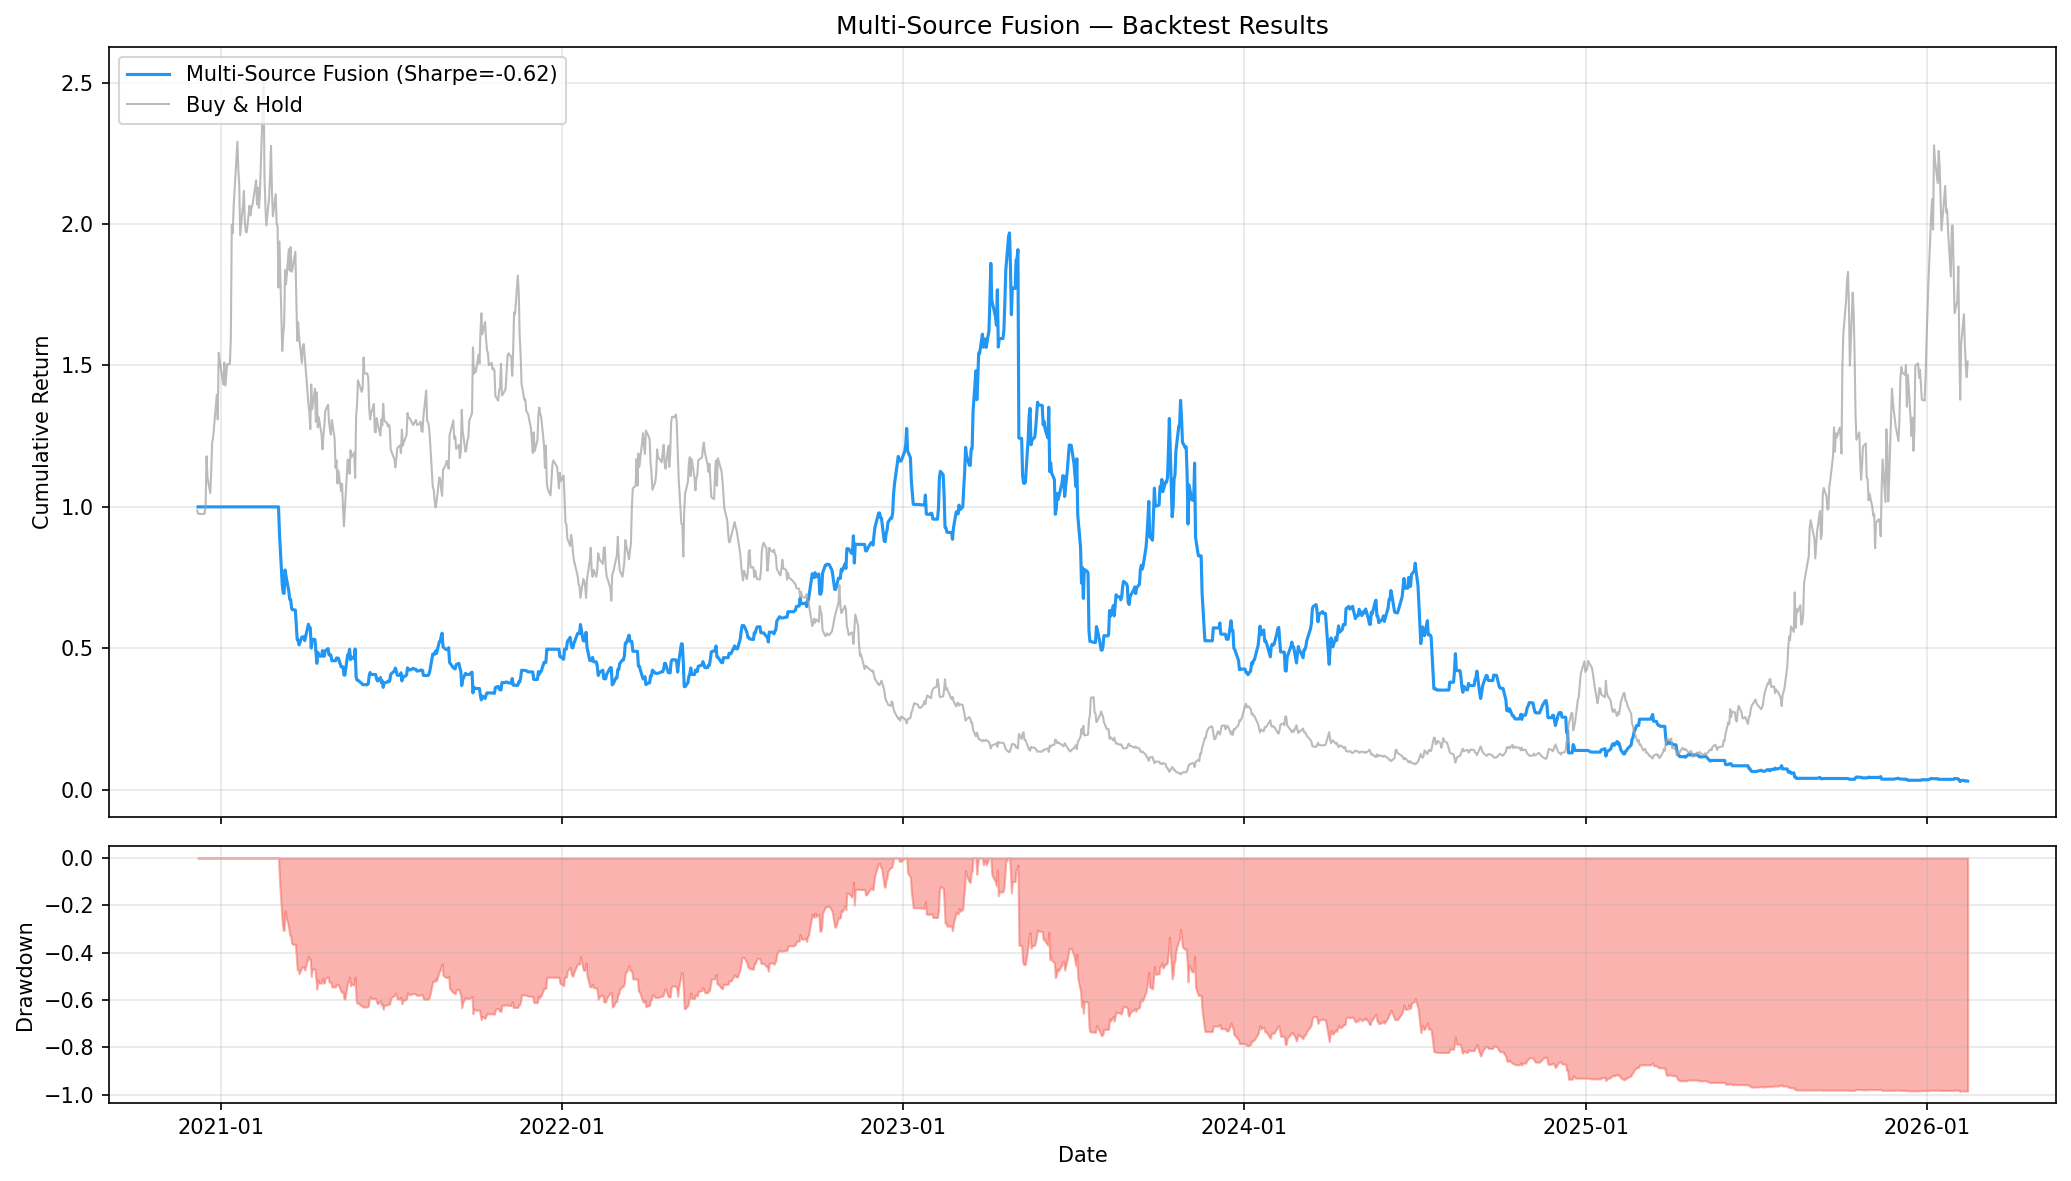
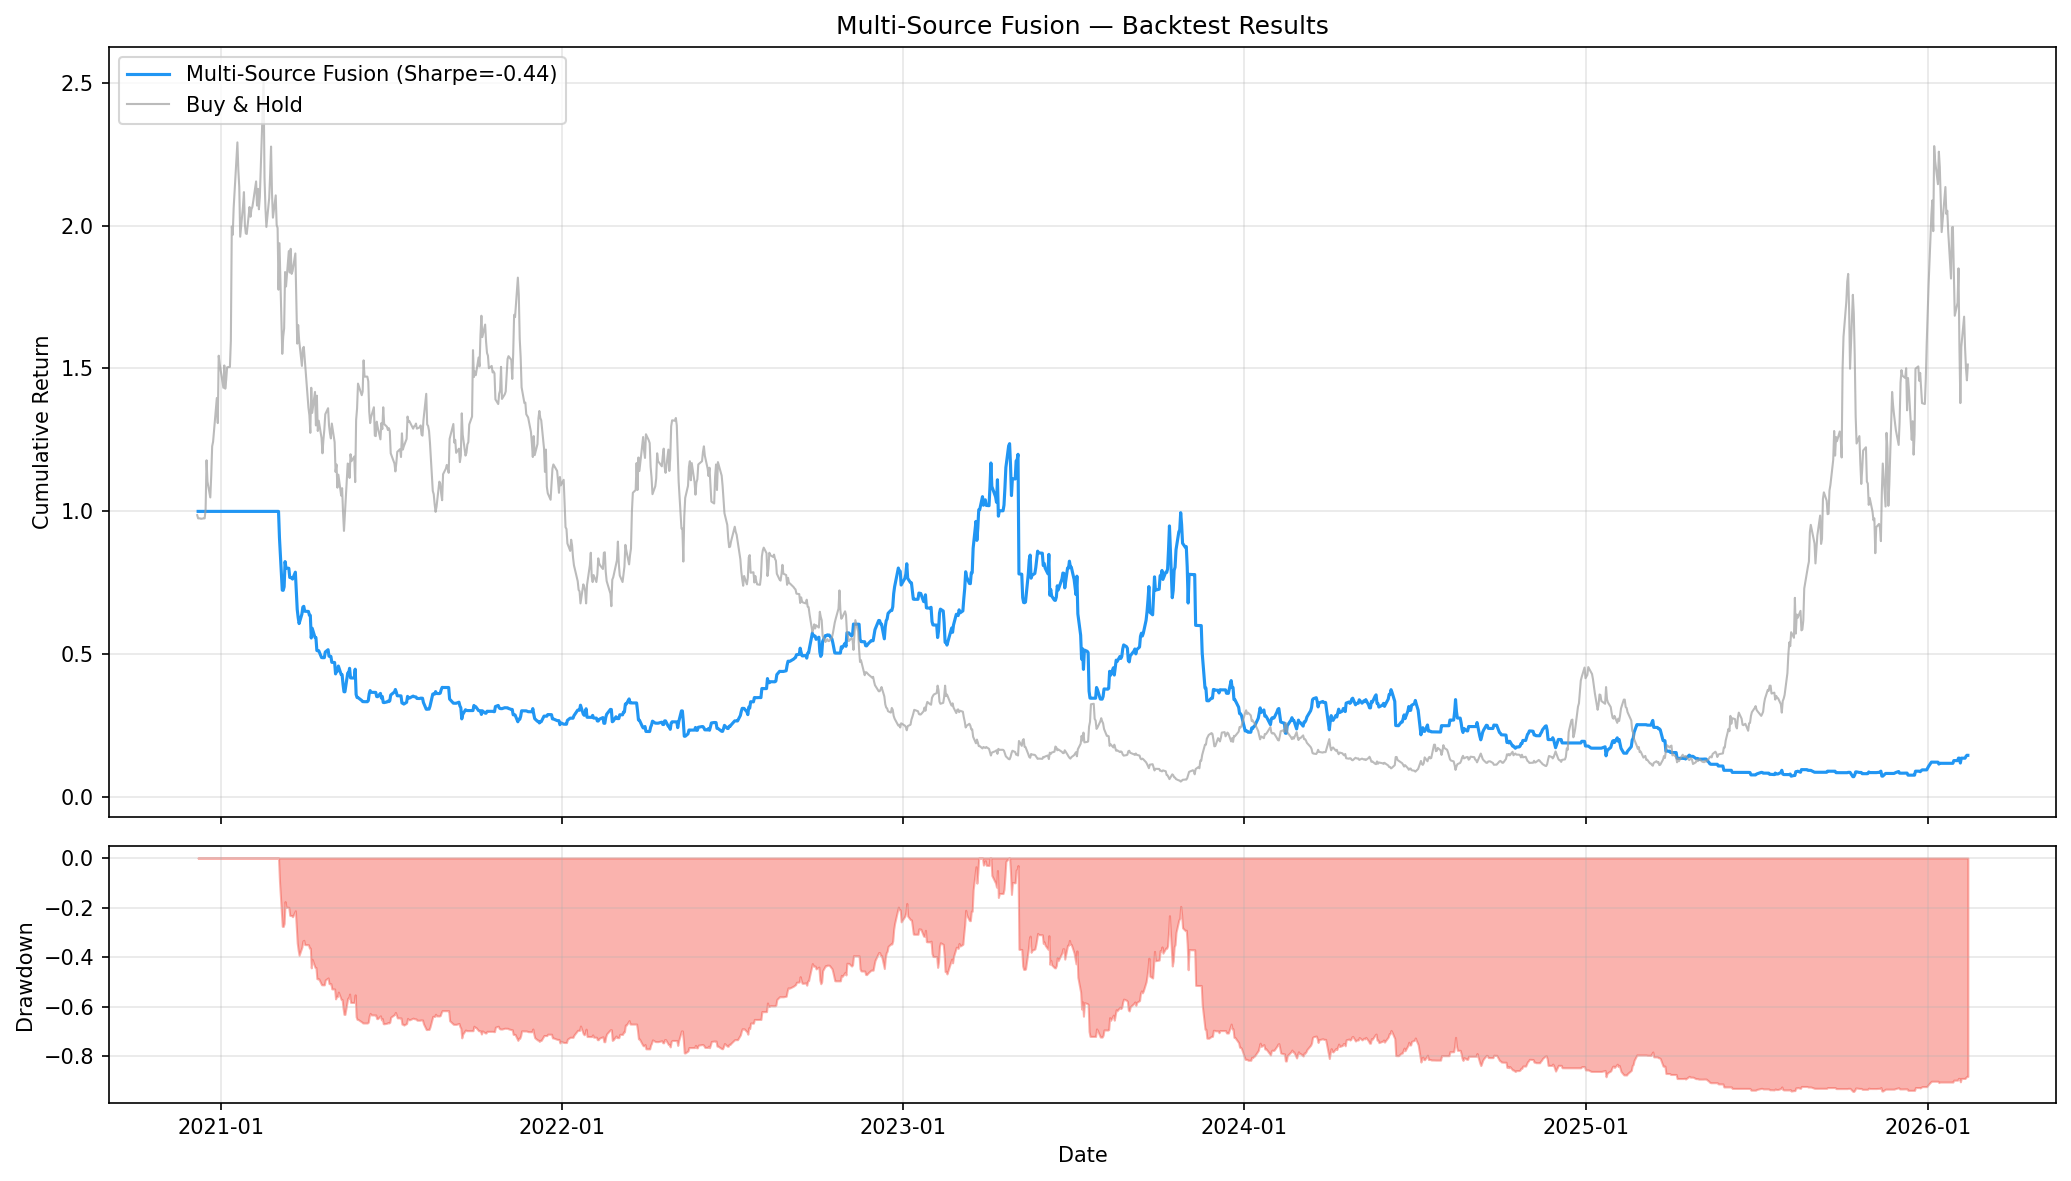
Add dark pool analysis (DIX/GEX + ONDS short volume), Finnhub analyst data, and future improvements
- Add ChartExchange ONDS-specific short volume scraping and analysis (375 days FINRA data)
- Update Plan 4 with dual dark pool sources: market-wide DIX/GEX + per-ticker short volume
- Collect Finnhub analyst recommendations (4 periods) and 217 news articles via API
- Add .env-based API key management with python-dotenv
- Include short volume features in fusion model (now 103 features, 85 after NaN filtering)
- Document Twitter/X CEO sentiment as future improvement in README
- Re-run fusion model with updated feature set

diff --git a/analysis/darkpool.py b/analysis/darkpool.py
@@ -33,6 +33,142 @@ def load_stockgrid_data(ticker: str = "ONDS") -> pd.DataFrame:
     return pd.read_csv(path)
 
 
+def load_chartexchange_data() -> pd.DataFrame:
+    """Load ChartExchange ONDS-specific short volume data (FINRA)."""
+    path = DATA_RAW / "chartexchange_onds_short_volume.csv"
+    if not path.exists():
+        print("  No ChartExchange short volume data found.")
+        return pd.DataFrame()
+    df = pd.read_csv(path)
+    # Parse date column (format: YYYYMMDD)
+    df["date"] = pd.to_datetime(df["date"], format="%Y%m%d")
+    df = df.set_index("date").sort_index()
+    # Compute short ratio
+    df["short_ratio"] = df["total_short"] / df["total_reported"]
+    df["off_exchange_short"] = df["FINRA"] / df["total_reported"]
+    print(f"    Loaded {len(df)} rows of ONDS short volume from ChartExchange")
+    return df
+
+
+def analyze_short_volume(sv_df: pd.DataFrame, onds_prices: pd.DataFrame) -> dict:
+    """
+    Analyze ONDS-specific short volume data from FINRA/ChartExchange.
+
+    Key hypothesis: Extreme short volume ratios may indicate directional bias.
+    Consistently high short volume (>40%) in small-caps like ONDS often reflects
+    market-maker hedging rather than bearish sentiment ("Short is Long" thesis).
+    """
+    if sv_df.empty:
+        print("  No short volume data available.")
+        return {}
+
+    onds_ret = onds_prices["Close"].pct_change()
+
+    merged = pd.DataFrame({
+        "short_ratio": sv_df["short_ratio"],
+        "off_exchange_short": sv_df["off_exchange_short"],
+        "total_volume": sv_df["total_reported"],
+        "ONDS_ret": onds_ret,
+        "ONDS_fwd_1d": onds_ret.shift(-1),
+        "ONDS_fwd_5d": onds_prices["Close"].pct_change(5).shift(-5),
+        "ONDS_fwd_20d": onds_prices["Close"].pct_change(20).shift(-20),
+    }).dropna()
+
+    if len(merged) < 30:
+        print(f"  Only {len(merged)} overlapping days for short volume. Insufficient.")
+        return {}
+
+    results = {}
+    print(f"\n  ONDS Short Volume Predictive Power ({len(merged)} days):")
+    print("  " + "-" * 60)
+    print(f"    Mean short ratio:  {merged['short_ratio'].mean():.2%}")
+    print(f"    Std short ratio:   {merged['short_ratio'].std():.2%}")
+    print(f"    Range: [{merged['short_ratio'].min():.2%}, {merged['short_ratio'].max():.2%}]")
+
+    for sig_col in ["short_ratio", "off_exchange_short"]:
+        for fwd in ["ONDS_fwd_1d", "ONDS_fwd_5d", "ONDS_fwd_20d"]:
+            valid = merged[[sig_col, fwd]].dropna()
+            if len(valid) < 30:
+                continue
+            corr, pval = stats.spearmanr(valid[sig_col], valid[fwd])
+            key = f"{sig_col}_vs_{fwd}"
+            results[key] = {"corr": corr, "pval": pval, "n": len(valid)}
+            sig = "***" if pval < 0.01 else "**" if pval < 0.05 else "*" if pval < 0.1 else ""
+            print(f"    {sig_col:20s} → {fwd:15s}  r={corr:+.4f}  p={pval:.4f} {sig}")
+
+    # Quintile analysis
+    for sig_col in ["short_ratio"]:
+        for fwd in ["ONDS_fwd_5d", "ONDS_fwd_20d"]:
+            valid = merged[[sig_col, fwd]].dropna()
+            if len(valid) < 50:
+                continue
+            valid["quintile"] = pd.qcut(valid[sig_col], 5,
+                                        labels=["Q1(Low)", "Q2", "Q3", "Q4", "Q5(High)"],
+                                        duplicates="drop")
+            quintile_means = valid.groupby("quintile", observed=True)[fwd].mean()
+            print(f"\n  Short Ratio Quintile Analysis → {fwd}:")
+            for q, m in quintile_means.items():
+                print(f"    {q}: {m:+.4f} ({m*100:+.2f}%)")
+
+    return results
+
+
+def generate_short_volume_signal(sv_df: pd.DataFrame) -> pd.Series:
+    """
+    Generate signal from ONDS-specific short volume.
+    High short ratio → potential bullish (market maker hedging)
+    Low short ratio → potential bearish (less institutional activity)
+    """
+    if sv_df.empty:
+        return pd.Series(dtype=float)
+
+    sr = sv_df["short_ratio"]
+    sr_z = (sr - sr.rolling(60, min_periods=20).mean()) / sr.rolling(60, min_periods=20).std()
+    sig = pd.Series(0.0, index=sv_df.index)
+    sig[sr_z > 1] = 0.5       # high short ratio → bullish ("short is long")
+    sig[sr_z < -1] = -0.5     # low short ratio → bearish
+    return sig.clip(-1, 1)
+
+
+def plot_short_volume(sv_df: pd.DataFrame, onds_prices: pd.DataFrame, save: bool = True):
+    """Plot ONDS short volume analysis."""
+    if sv_df.empty:
+        return
+
+    fig, axes = plt.subplots(3, 1, figsize=(14, 10), sharex=True)
+
+    # ONDS price
+    common = onds_prices.index.intersection(sv_df.index)
+    ax = axes[0]
+    ax.plot(onds_prices.loc[common].index, onds_prices.loc[common]["Close"],
+            color="#1976D2", linewidth=1)
+    ax.set_ylabel("ONDS Price ($)")
+    ax.set_title("ONDS Short Volume Analysis (FINRA/ChartExchange)")
+    ax.grid(True, alpha=0.3)
+
+    # Short ratio
+    ax = axes[1]
+    ax.bar(sv_df.index, sv_df["short_ratio"] * 100, color="#FF9800", alpha=0.6, width=1)
+    ax.axhline(sv_df["short_ratio"].mean() * 100, color="red", linestyle="--",
+               alpha=0.7, label=f"Mean: {sv_df['short_ratio'].mean():.1%}")
+    ax.set_ylabel("Short Volume %")
+    ax.legend()
+    ax.grid(True, alpha=0.3)
+
+    # Total volume
+    ax = axes[2]
+    ax.bar(sv_df.index, sv_df["total_reported"] / 1e6, color="#2196F3", alpha=0.5, width=1)
+    ax.set_ylabel("Total Volume (M)")
+    ax.set_xlabel("Date")
+    ax.grid(True, alpha=0.3)
+
+    plt.tight_layout()
+    if save:
+        fig.savefig(FIGURES_DIR / "onds_short_volume.png", dpi=150, bbox_inches="tight")
+        print(f"  Saved: {FIGURES_DIR / 'onds_short_volume.png'}")
+    plt.close(fig)
+
+
 def analyze_dix_predictive_power(dix_df: pd.DataFrame, onds_prices: pd.DataFrame) -> dict:
     """
     Test if DIX/GEX levels predict future ONDS returns.

diff --git a/run_all.py b/run_all.py
@@ -187,28 +187,56 @@ def run_plan_4():
     """Plan 4: Dark Pool Analysis."""
     banner("PLAN 4: DARK POOL ANALYSIS")
     from collectors.prices import load_prices
-    from analysis.darkpool import (load_dix_data, analyze_dix_predictive_power,
-                                    generate_darkpool_signal, plot_dix_analysis)
+    from analysis.darkpool import (load_dix_data, load_chartexchange_data,
+                                    analyze_dix_predictive_power, analyze_short_volume,
+                                    generate_darkpool_signal, generate_short_volume_signal,
+                                    plot_dix_analysis, plot_short_volume)
     from backtests.engine import backtest, print_results
 
     prices = load_prices(TARGET_TICKER)
-    dix_df = load_dix_data()
+    all_results = []
 
+    # Part A: DIX/GEX (market-wide dark pool indicator)
+    dix_df = load_dix_data()
     if not dix_df.empty:
-        section("4a. DIX predictive power")
+        section("4a. DIX/GEX predictive power")
         analyze_dix_predictive_power(dix_df, prices)
 
-        section("4b. DIX visualization")
+        section("4b. DIX/GEX visualization")
         plot_dix_analysis(dix_df, prices)
 
-        section("4c. Backtest dark pool signal")
+        section("4c. Backtest DIX/GEX signal")
         signal = generate_darkpool_signal(dix_df)
         results = backtest(prices["Close"], signal, name="Dark Pool (DIX/GEX)")
         print_results(results)
-        return results
+        all_results.append(results)
     else:
-        print("  No dark pool data available. Skipping backtest.")
-        return None
+        print("  No DIX/GEX data available.")
+
+    # Part B: ONDS-specific short volume (FINRA/ChartExchange)
+    sv_df = load_chartexchange_data()
+    if not sv_df.empty:
+        section("4d. ONDS short volume predictive power")
+        analyze_short_volume(sv_df, prices)
+
+        section("4e. ONDS short volume visualization")
+        plot_short_volume(sv_df, prices)
+
+        section("4f. Backtest ONDS short volume signal")
+        sv_signal = generate_short_volume_signal(sv_df)
+        sv_results = backtest(prices["Close"], sv_signal, name="Short Volume (ONDS)")
+        print_results(sv_results)
+        all_results.append(sv_results)
+
+        # Save short volume features for fusion
+        sv_features = sv_df[["short_ratio", "off_exchange_short", "total_reported"]].copy()
+        sv_features.columns = ["short_ratio", "off_exchange_ratio", "finra_volume"]
+        sv_features.to_csv(DATA_PROC / "onds_short_volume_features.csv")
+        print(f"  Saved short volume features: {DATA_PROC / 'onds_short_volume_features.csv'}")
+    else:
+        print("  No ONDS short volume data available.")
+
+    return all_results[0] if all_results else None
 
 
 def run_plan_5():
@@ -402,6 +430,7 @@ def run_plan_12(all_results: dict):
         "reddit": ("reddit_daily_sentiment.csv", "date"),
         "news": ("news_daily_sentiment.csv", "date"),
         "regime": ("regimes_hmm.csv", None),
+        "short_volume": ("onds_short_volume_features.csv", None),
     }
     loaded = {}
     for name, (fname, idx_col) in sources.items():
@@ -419,6 +448,7 @@ def run_plan_12(all_results: dict):
     reddit_sent = loaded["reddit"]
     news_sent = loaded["news"]
     regime_df = loaded["regime"]
+    short_vol = loaded.get("short_volume")
 
     section("12a. Build feature matrix")
     from config import DATA_FEAT
@@ -431,6 +461,7 @@ def run_plan_12(all_results: dict):
         reddit_sentiment=reddit_sent,
         news_sentiment=news_sent,
         regime_df=regime_df,
+        short_volume_df=short_vol,
     )
     features.to_csv(DATA_FEAT / "full_feature_matrix.csv")
 

diff --git a/analysis/fusion.py b/analysis/fusion.py
@@ -27,6 +27,7 @@ def build_feature_matrix(
     darkpool_signal: pd.Series = None,
     regime_df: pd.DataFrame = None,
     analyst_signal: pd.Series = None,
+    short_volume_df: pd.DataFrame = None,
 ) -> pd.DataFrame:
     """
     Merge all feature sources into a single feature matrix aligned by date.
@@ -79,6 +80,11 @@ def build_feature_matrix(
     # Analyst
     if analyst_signal is not None and not analyst_signal.empty:
         features["analyst_signal"] = analyst_signal
+
+    # Short volume (ONDS-specific FINRA data)
+    if short_volume_df is not None and not short_volume_df.empty:
+        for col in short_volume_df.columns:
+            features[f"sv_{col}"] = short_volume_df[col]
 
     # Forward-fill NaN from low-frequency sources
     features = features.ffill().bfill()

diff --git a/config.py b/config.py
@@ -5,6 +5,13 @@ All paths, tickers, API keys, and parameters in one place.
 import os
 from pathlib import Path
 
+# Load .env file if present (API keys, credentials)
+try:
+    from dotenv import load_dotenv
+    load_dotenv(Path(__file__).resolve().parent / ".env")
+except ImportError:
+    pass  # python-dotenv not installed, use os.environ directly
+
 # ── Project root ──────────────────────────────────────────────
 PROJECT_ROOT = Path(__file__).resolve().parent
 DATA_RAW     = PROJECT_ROOT / "data" / "raw"

diff --git a/README.md b/README.md
@@ -165,6 +165,24 @@ export REDDIT_SECRET="your_secret"
 - CEO: Eric Brock (@CeoOndas on X)
 - Peer universe: RCAT, AVAV, KTOS, JOBY, LMT, RTX
 
+## Future Improvements
+
+### CEO Twitter/X Sentiment (Plan 7)
+- **Goal**: Scrape tweets from @CeoOndas (Eric Brock) and analyze sentiment around key announcements
+- **Tool**: `twscrape` (installed) — requires X account authentication
+- **Setup**: Run `python -m twscrape add_accounts "username" "password" "email" "email_password"` then `python -m twscrape login_accounts`
+- **Alternative**: Apply for X API developer access at [developer.twitter.com](https://developer.twitter.com)
+- **Analysis**: Score tweets with FinBERT, compute event-window returns around tweet bursts
+- **Status**: Framework built (`analysis/sentiment.py` supports Twitter), awaiting authentication
+
+### Additional Enhancements
+- **Real-time dark pool**: Integrate live SqueezeMetrics DIX/GEX feed (requires subscription)
+- **Intraday options flow**: Monitor unusual options activity via CBOE/OPRA data
+- **Insider transactions**: Track SEC Form 4 filings for ONDS insiders (via SEC EDGAR API)
+- **Reddit real-time**: Use PRAW (Reddit API) for streaming sentiment instead of JSON API snapshots
+- **Ensemble tuning**: Hyperparameter optimization (Optuna), SHAP feature explanations, neural network models
+- **Portfolio optimization**: Mean-variance or risk-parity allocation across multiple signal strategies
+
 ## License
 
 Academic and research use. Part of a graduation thesis on multi-signal quantitative analysis.
